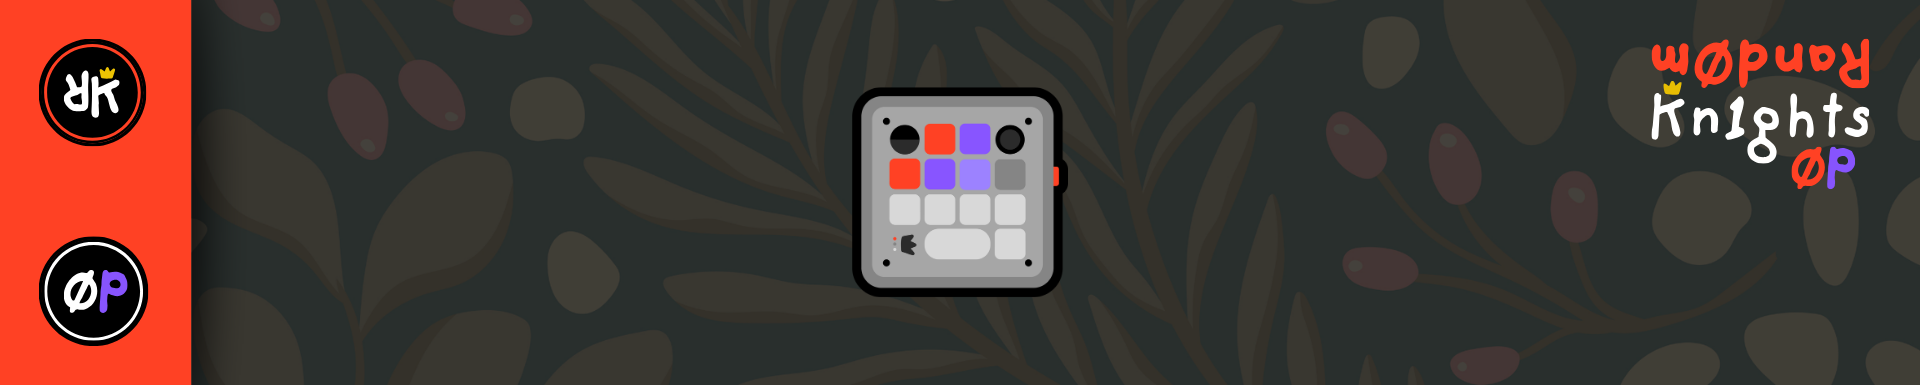
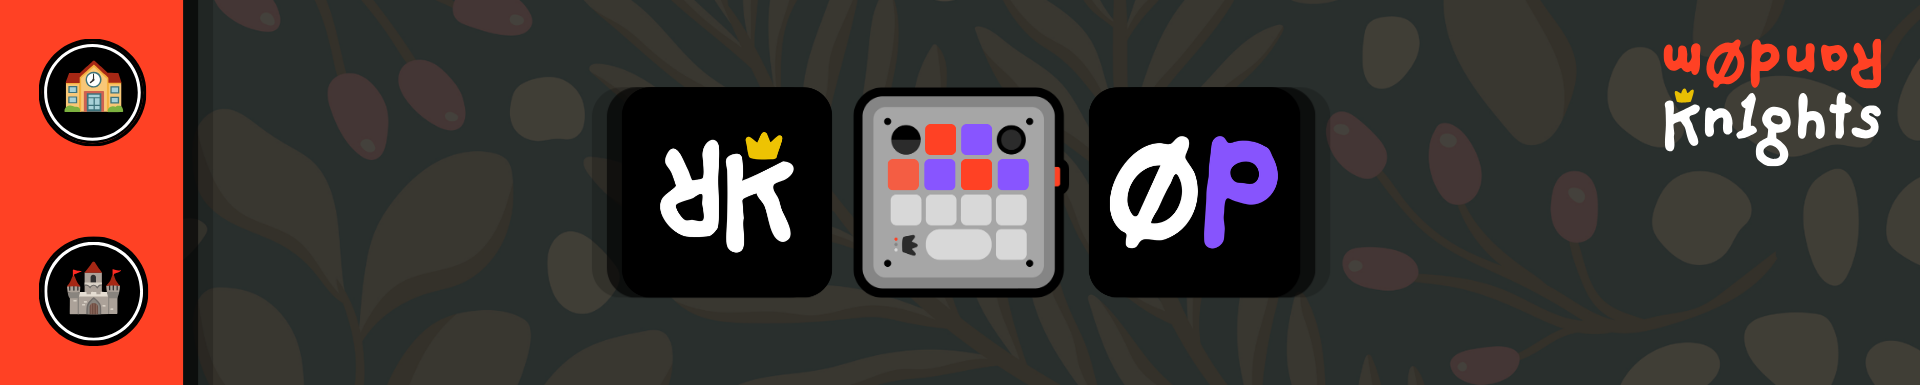
feat: integrate public-ready Micr0Pad release candidate

diff --git a/public/app.js b/public/app.js
@@ -698,7 +698,7 @@ function renderSlotEdit() {
     for (const s of state.config.slots) {
       const name = box.querySelector(`input[data-slot="${s.slot}"][data-field="name"]`).value;
       const color = box.querySelector(`input[data-slot="${s.slot}"][data-field="color"]`).value;
-      slots.push({ slot: s.slot, name, color });
+      slots.push({ ...s, name, color });
     }
     const r = await apiPost("/api/config", { slots });
     const j = await r.json();
@@ -860,11 +860,9 @@ async function renderDebug() {
       aiedsEl.innerHTML = h;
       renderAiedsTotals(a);
     } else {
-      // No stats recorded yet: show the engineer placeholder centered, plus a
-      // short description drawn from the AIEDS reference (randomknights.xyz/aieds).
+      // No stats recorded yet: keep the real empty chart and its explanation.
       aiedsEl.innerHTML = `
         <div class="aieds-empty">
-          <img src="engineer.png" alt="AIEDS engineer placeholder" class="aieds-placeholder" />
           <p class="aieds-empty-title">No AIEDS stats recorded yet.</p>
           <p>AIEDS is the provider-neutral standard for reporting modeled energy and carbon from AI work. Methodology 2.0.0 is energy-first:</p>
           <ul>
@@ -888,11 +886,9 @@ function esc(s) {
 // meaningless eight-digit number.
 function renderAiedsTotals(a) {
   const box = document.getElementById("aiedsStats");
-  const row = document.getElementById("aiedsChartRow");
   if (!box) return;
   if (!a || !a.rows) {
     box.hidden = true;
-    if (row) row.hidden = true;
     return;
   }
   const treeYears = (+a.totalTreeMin || 0) / 525600;
@@ -1012,9 +1008,20 @@ function renderAiedsChips() {
 function drawAiedsChart() {
   const svg = document.getElementById("aiedsChart");
   const row = document.getElementById("aiedsChartRow");
-  if (!svg || !row || !aiedsSeries || aiedsSeries.length < 2) return;
+  if (!svg || !row || !aiedsSeries) return;
   const w = 320, h = 100, padL = 3, padR = 3, padT = 8, padB = 6;
   const n = aiedsSeries.length;
+  if (n < 2) {
+    svg.setAttribute("viewBox", "0 0 " + w + " " + h);
+    svg.innerHTML =
+      '<line x1="0" y1="' + (h - padB) + '" x2="' + w + '" y2="' + (h - padB) +
+      '" stroke="rgba(255,124,72,0.28)" stroke-width="1" stroke-dasharray="4 3" ' +
+      'vector-effect="non-scaling-stroke"/>';
+    const range0 = document.getElementById("aiedsRange");
+    if (range0) range0.textContent = "no activity yet";
+    row.hidden = false;
+    return;
+  }
   const x = (i) => padL + (i * (w - padL - padR)) / (n - 1);
   const norm = (v, max) => {
     if (max <= 0) return 0;
@@ -1206,6 +1213,7 @@ renderDebug();
 // Subscribe to device key events over SSE so the app reacts to physical key
 // presses (talk toggle, action runs) without polling. When the device talk key
 // is pressed, the talk button state and the gold pulse follow.
+let lastTalkKeyAt = 0;
 function connectEvents() {
   const es = new EventSource("/api/events");
   es.onmessage = (ev) => {
@@ -1216,6 +1224,9 @@ function connectEvents() {
       return;
     }
     if (msg.type === "actkey" && (msg.index === 10 || msg.index === 11) && msg.pressed) {
+      const now = Date.now();
+      if (now - lastTalkKeyAt < 250) return;
+      lastTalkKeyAt = now;
       // Device talk key toggled: flip the app talk state to match.
       const btn = document.getElementById("talkBtn");
       if (talkListening) stopTalk(btn); else toggleTalk(btn);

diff --git a/test/public-safety.test.js b/test/public-safety.test.js
@@ -11,6 +11,7 @@ const assert = require("node:assert");
 const fs = require("fs");
 const path = require("path");
 const { execFileSync } = require("child_process");
+const crypto = require("crypto");
 
 const ROOT = path.join(__dirname, "..");
 
@@ -84,6 +85,30 @@ test("package.json declares an install a stranger can run", () => {
   assert.equal(pkg.scripts.start, "node server.js");
   assert.ok(pkg.engines && pkg.engines.node, "declare the Node floor");
   assert.ok(fs.existsSync(path.join(ROOT, pkg.bin.micr0pad)), "bin entry must exist");
+});
+
+test("the shipped browser and README use the owner-approved 0P identity", () => {
+  assert.match(read("public/index.html"), /<title>0P \| Micr0Pad<\/title>/);
+  assert.match(read("README.md"), /assets\/readme-header\.png\?v=20260906/);
+  assert.match(read("README.md"), /assets\/readme-demo\.gif\?v=20260906/);
+  for (const file of [
+    "public/favicon.png",
+    "public/0p.png",
+    "assets/readme-header.png",
+    "assets/readme-demo.gif",
+  ]) {
+    assert.ok(fs.existsSync(path.join(ROOT, file)), `${file} must exist`);
+  }
+  const favicon = fs.readFileSync(path.join(ROOT, "public/favicon.png"));
+  assert.equal(
+    crypto.createHash("sha256").update(favicon).digest("hex"),
[1 lines of base64/hex data omitted]
+    "favicon.png must be the owner-supplied 0P icon",
+  );
+});
+
+test("saving slot labels preserves provider matching fields", () => {
+  assert.match(read("public/app.js"), /slots\.push\(\{ \.\.\.s, name, color \}\)/);
 });
 
 test("every tracked JavaScript file parses", () => {

diff --git a/public/app.css b/public/app.css
@@ -683,14 +683,6 @@ img.pad-mark { mix-blend-mode: screen; pointer-events: none; }
 .aieds-empty .aieds-empty-title { font-weight: 700; color: var(--ink); margin: 0 0 6px; }
 .aieds-empty ul { margin: 6px 0; padding-left: 18px; }
 .aieds-empty code { font-family: "IBM Plex Mono", monospace; font-size: 11px; color: var(--focus); }
-.aieds-empty .aieds-placeholder {
-  display: block;
-  margin: 0 auto 12px;
-  max-width: 120px;
-  border-radius: 8px;
-  border: 1px solid var(--line);
-  opacity: 0.85;
-}
 /* PC resource monitor */
 .sys-metrics { display: flex; flex-direction: column; gap: 6px; margin: 2px 0 8px; flex: none; }
 .sys-bar { display: flex; align-items: center; gap: 8px; }
@@ -810,13 +802,12 @@ img.pad-mark { mix-blend-mode: screen; pointer-events: none; }
   padding: 10px 0;
 }
 .rk-bars { width: min(260px, 66%); height: auto; opacity: 0.9; }
-/* height:auto keeps the box on the artwork's own aspect ratio - with
-   object-fit the image was letterboxed inside a wider box, so the rounded
-   corners clipped empty space instead of the artwork. */
+/* The available height changes with the window. Cover fills it without
+   stretching the artwork. */
 .rk-filler-img {
   width: 100%;
-  height: auto;
-  max-height: 100%;
+  height: 100%;
+  object-fit: cover;
   border-radius: 16px;
   opacity: 0.95;
 }

diff --git a/public/index.html b/public/index.html
@@ -3,8 +3,8 @@
 <head>
   <meta charset="utf-8">
   <meta name="viewport" content="width=device-width, initial-scale=1">
-  <title>Micr0Pad</title>
-  <link rel="icon" type="image/png" href="favicon.png?v=20260901">
+  <title>0P | Micr0Pad</title>
+  <link rel="icon" type="image/png" href="favicon.png?v=20260906">
   <link rel="preconnect" href="https://fonts.googleapis.com">
   <link rel="preconnect" href="https://fonts.gstatic.com" crossorigin>
   <link rel="stylesheet" href="https://fonts.googleapis.com/css2?family=IBM+Plex+Mono:wght@400;500&family=Instrument+Sans:wght@400;500;600&display=swap">
@@ -41,7 +41,7 @@
             </table>
           </div>
           <div class="rk-bars-fill" aria-hidden="true">
-            <img src="ruok.gif?v=20260901" alt="" class="rk-filler-img">
+            <img src="ruok.gif?v=20260903b" alt="" class="rk-filler-img">
           </div>
           <h3 class="subhead">Providers <span class="hint">(blurb, install command, site - click a command to copy)</span></h3>
           <div class="install-list">

diff --git a/lib/bridge.js b/lib/bridge.js
@@ -107,6 +107,14 @@ class MicropadBridge {
     }
     const name = byId[index];
     if (!name) { this.emit("notice", { text: `unmapped action key ${index}` }); return; }
+    // The wide talk key is two switches under one keycap. The firmware sends
+    // both press events within milliseconds, so treat them as one press.
+    const now = Date.now();
+    if (name === this._lastActionName && now - (this._lastActionAt || 0) < 250) {
+      return;
+    }
+    this._lastActionName = name;
+    this._lastActionAt = now;
     if (name === "talk") {
       const next = !this.talkActive;
       this.setTalk(next);

diff --git a/lib/focus.js b/lib/focus.js
@@ -13,7 +13,7 @@
 // set "focusBrowserOnTalk": true in config.json.
 const { execFile } = require("child_process");
 
-// Matches the browser window by title. The page's <title> is "Micr0Pad", and
+// Matches the browser window by title. The page title contains "Micr0Pad", and
 // AppActivate matches from the start of the window title, so this finds
 // "Micr0Pad - Google Chrome" and friends without naming a browser.
 const TITLE = "Micr0Pad";

diff --git a/README.md b/README.md
@@ -2,7 +2,7 @@
 
 <!-- HEADER -->
 <div align="center">
-  <img alt="Random Knights 0P MicroPad" src="assets/readme-header.png">
+  <img alt="Random Knights 0P MicroPad" src="assets/readme-header.png?v=20260906">
 
 <h3 align="center" style="color:#ff4124">0P_Micr0Pad</h3>
 
@@ -50,6 +50,10 @@ Face, Ollama, anything Herdr can run.
 
 No vendor app sits in the middle. The bridge speaks the device's own JSON-RPC
 over raw HID, and what it learns about your machine stays on your machine.
+
+<div align="center">
+  <img alt="Micr0Pad running with the Random Knights agent workspace" src="assets/readme-demo.gif?v=20260906">
+</div>
 
 - Built with
   - Node, no build step. One dependency, `node-hid`, which brings two more in

diff --git a/AGENTS.md b/AGENTS.md
@@ -71,6 +71,12 @@ uses `fetch`). One runtime dependency, `node-hid`, which is native.
 There is no build step and no bundler. `public/` is served as written, so what
 you read in the file is what the browser runs.
 
+## Browser identity
+
+- Tab title: `0P | Micr0Pad`.
+- Favicon source: the owner-supplied `0P.png`, copied to `public/favicon.png`.
+- README header and demo assets live under `assets/` and must resolve locally.
+
 ## Hardware rules
 
 The pad is not a toy target: three of the scripts write to device flash.
